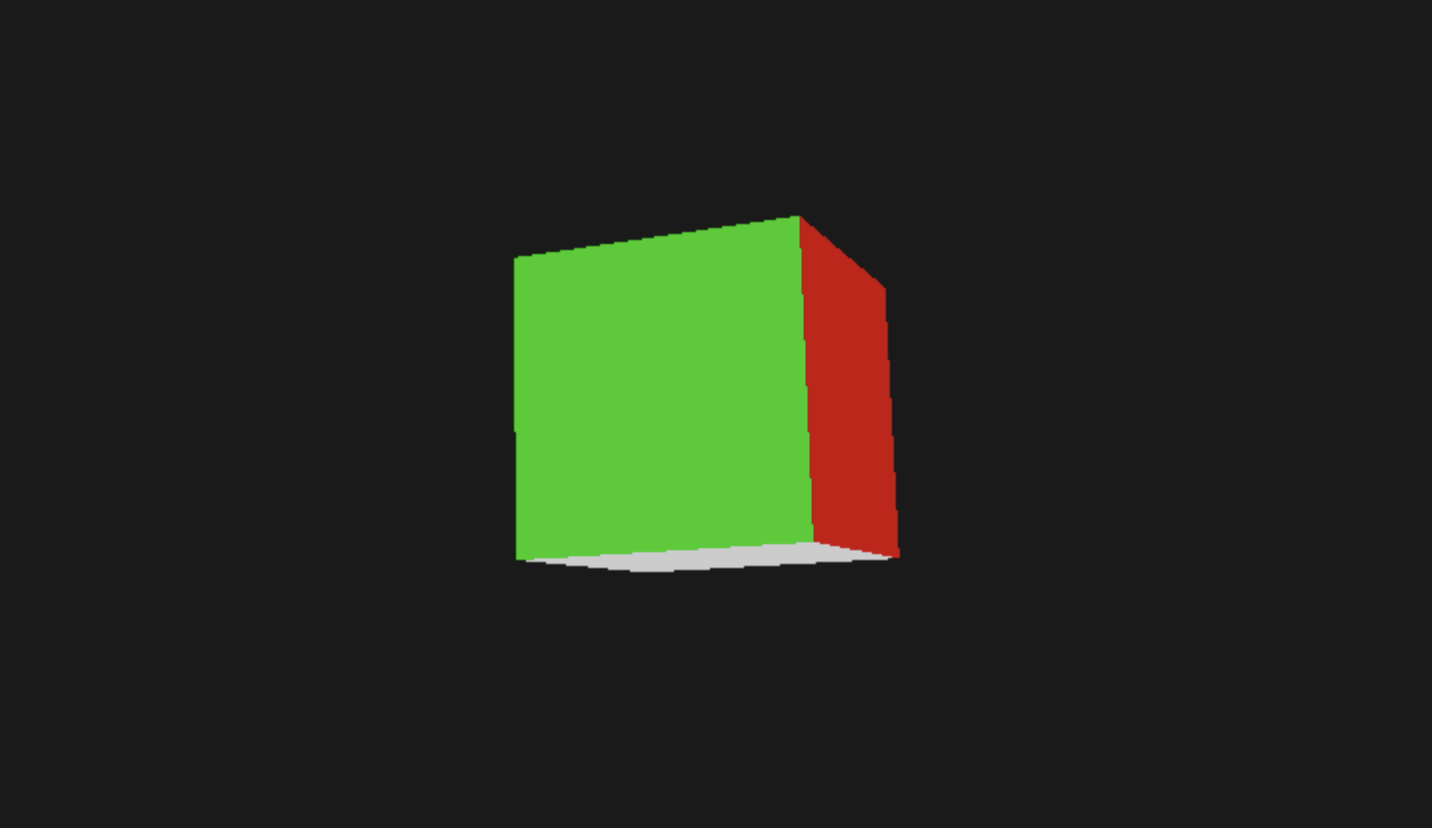
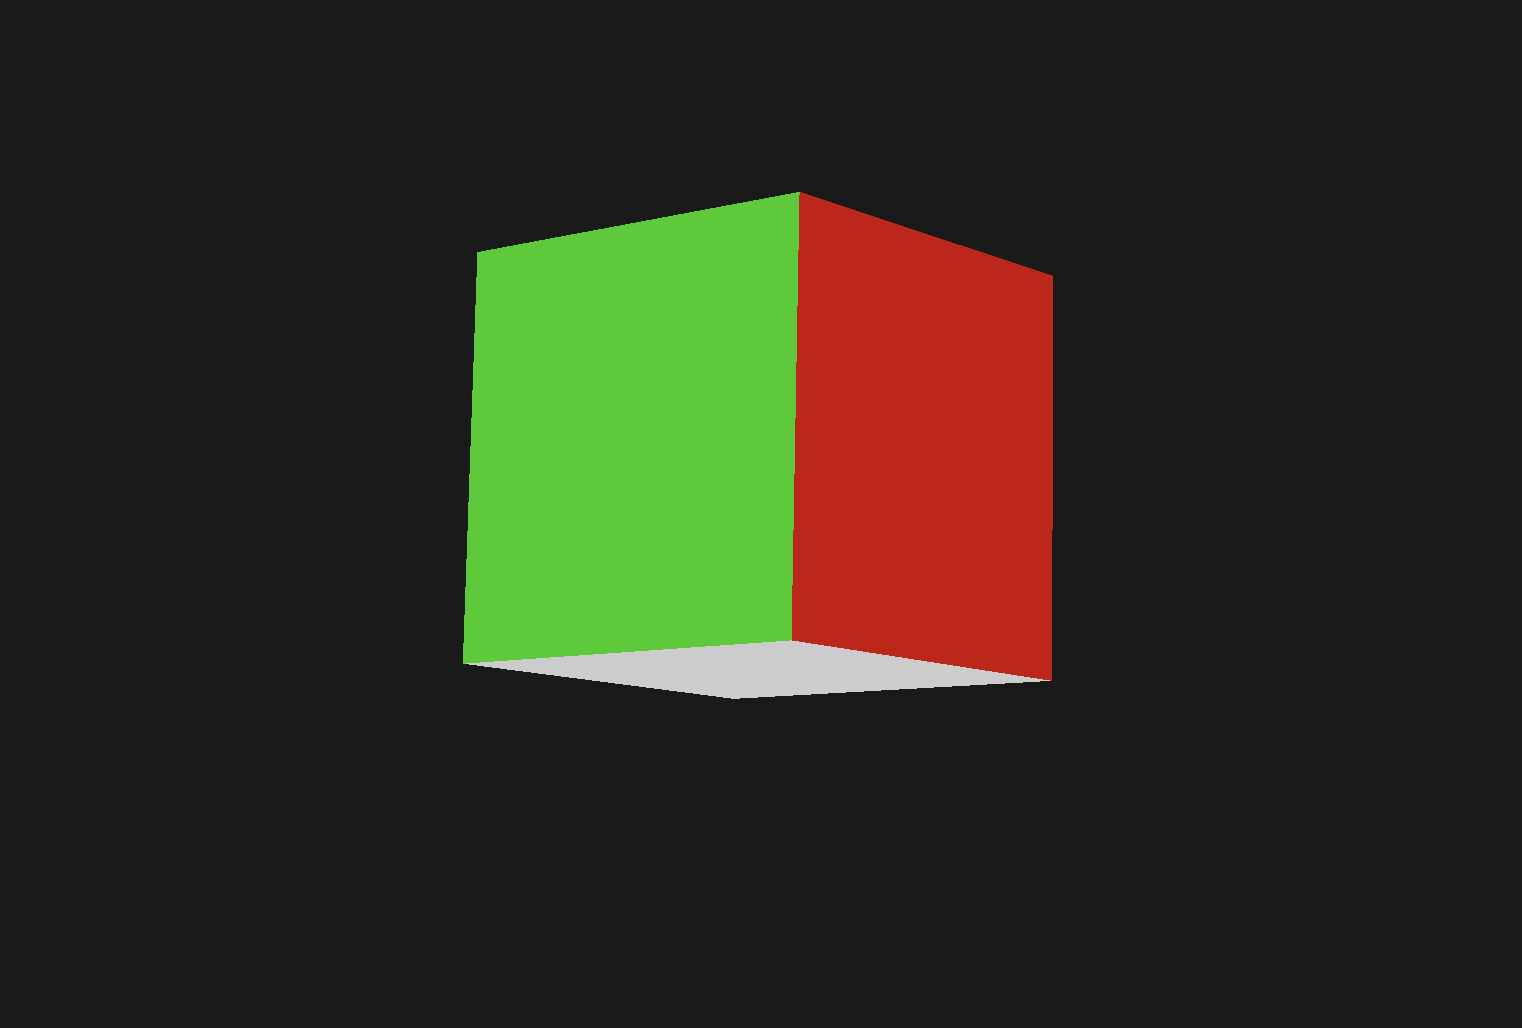
updated cube photo

Changed region(s): [[0.3073, 0.1812, 0.7067, 0.6944]]

diff --git a/src/Renderer.cpp b/src/Renderer.cpp
@@ -245,13 +245,13 @@ void Renderer::drawFrame() {
       /*
        *      Rotation Scope
        */
-       // {
-       //     float spinSpeed = 0.7f;
-       //     BroMath::Transform &transformMatrix = model->getTransformMatrix();
-       //     transformMatrix.setRotation(deltaTime * spinSpeed, 0.0f, 1.0f, 0.0f);
-       //     auto *u = static_cast<Uniforms *>(uniformBuffer->contents());
-       //     u->modelMatrix = transformMatrix.getMatrix();
-       // }
+       {
+           float spinSpeed = 0.7f;
+           BroMath::Transform &transformMatrix = model->getTransformMatrix();
+           transformMatrix.setRotation(deltaTime * spinSpeed, 0.0f, 1.0f, 0.0f);
+           auto *u = static_cast<Uniforms *>(uniformBuffer->contents());
+           u->modelMatrix = transformMatrix.getMatrix();
+       }
 
 
       // ^ This is the draw call

diff --git a/src/Scene.cpp b/src/Scene.cpp
@@ -76,7 +76,7 @@ float Scene::computeDelta() {
 
 Model * Scene::loadModel() {
     // Define which obj file you want to load here
-    std::string fileName = "fox.obj";
+    std::string fileName = "CC3.obj";
     if (!device) {
         throw std::runtime_error("No device in loadModels()");
     }
